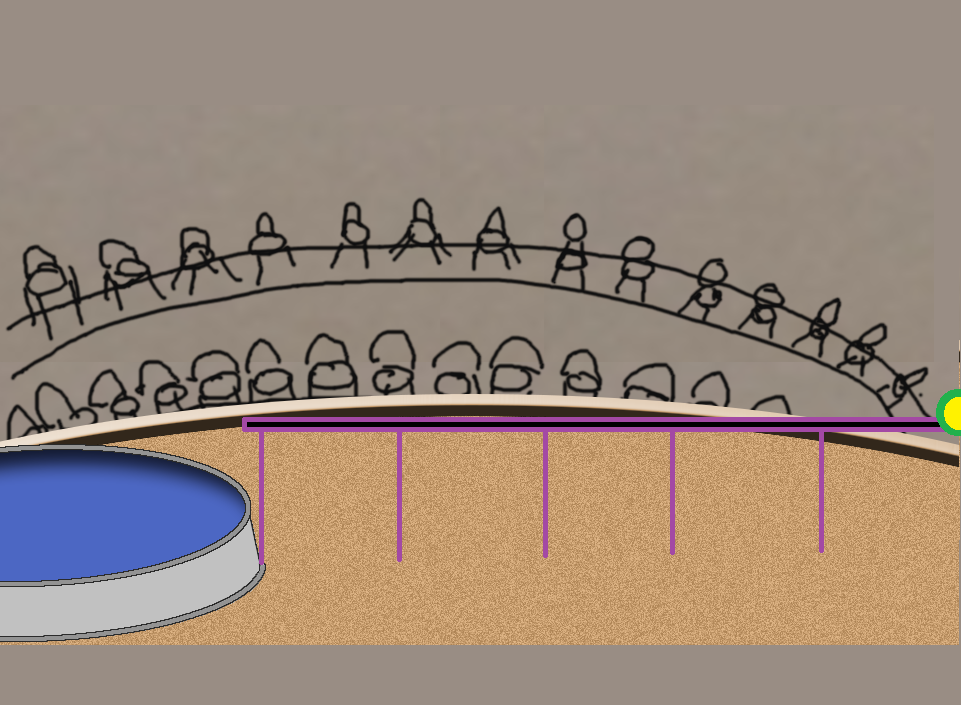
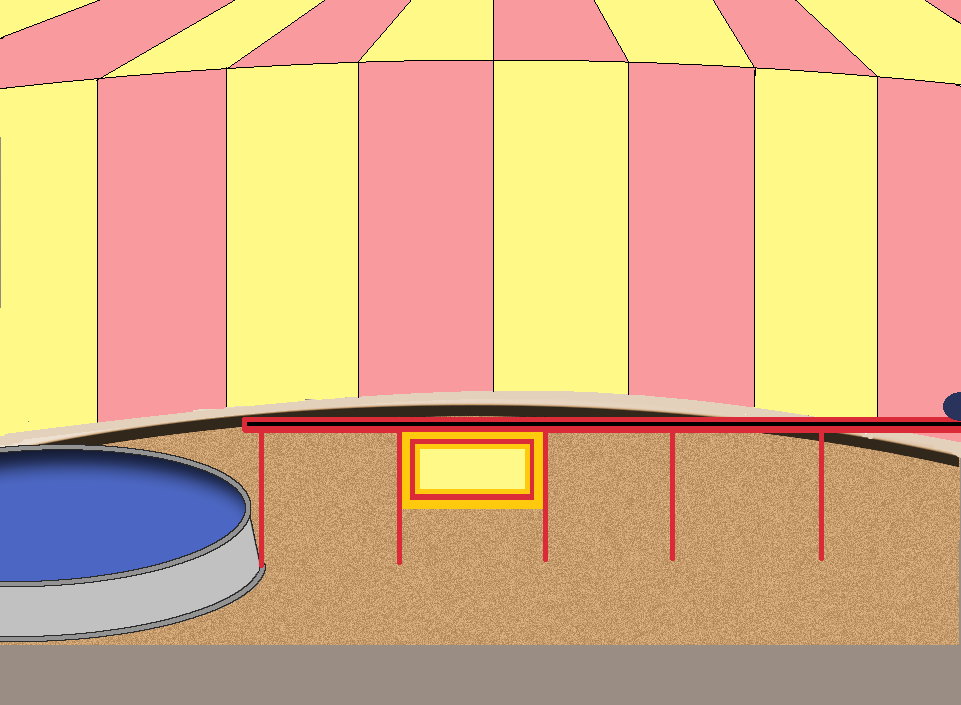
changed images and improved score readout

diff --git a/stuntcat/scenes/cat3.py b/stuntcat/scenes/cat3.py
@@ -531,22 +531,19 @@ class Score(DirtySprite):
         """
         DirtySprite.__init__(self)
         self.score_holder = score_holder
-        self.myfont = pygame.font.SysFont("monospace", 20)
-        self.image = self.myfont.render(
-            "score : " + str(self.score_holder.score), True, [255, 255, 255]
-        )
+        self.myfont = pygame.font.SysFont("monospace", 30, bold = True)
+        self.image = self.myfont.render(str(self.score_holder.score), True, [0, 0, 0])
         self.rect = self.image.get_rect()
-        self.rect.x = 100
-        self.rect.y = 100
+        self.rect.x = 460
+        self.rect.y = 451
 
         self.last_score = self.score_holder.score
 
     def update(self):
         if self.last_score != self.score_holder.score:
             self.dirty = True
-            self.image = self.myfont.render(
-                "score : " + str(self.score_holder.score), True, [255, 255, 255]
-            )
+            self.image = self.myfont.render(str(self.score_holder.score), True, [0,0,0])
+            self.rect.x = 475 - self.image.get_size()[0]/2
         self.last_score = self.score_holder.score
 
 
@@ -710,15 +707,15 @@ class CatUniScene(Scene):
         if self.score > 3:
             self.number_of_not_fish = 1
         if self.score > 9:
-            self.number_of_not_fish = 0
+            self.number_of_not_fish = 1
         if self.score > 15:
-            self.number_of_not_fish = 1
-        if self.score > 19:
-            self.number_of_not_fish = 0
-        if self.score > 25:
-            self.number_of_not_fish = 1
-        if self.score > 35:
             self.number_of_not_fish = 2
+        if self.score > 19:
+            self.number_of_not_fish = 1
+        if self.score > 25:
+            self.number_of_not_fish = 2
+        if self.score > 35:
+            self.number_of_not_fish = 3
         if self.score >= 50:
             self.number_of_not_fish = int((self.score - 20)/10)
 
@@ -796,10 +793,9 @@ class CatUniScene(Scene):
             pygame.draw.circle(screen, [255, 0, 0], [int(f.pos[0]), int(f.pos[1])], 10)
 
         # draw score
-        textsurface = self.myfont.render(
-            "score : " + str(self.score), True, [255, 255, 255]
+        textsurface = self.myfont.render(str(self.score), True, [0, 0, 0]
         )
-        screen.blit(textsurface, (100, 100))
+        screen.blit(textsurface, (200, 300))
         return [screen.get_rect()]
 
     def tick(self, dt):
